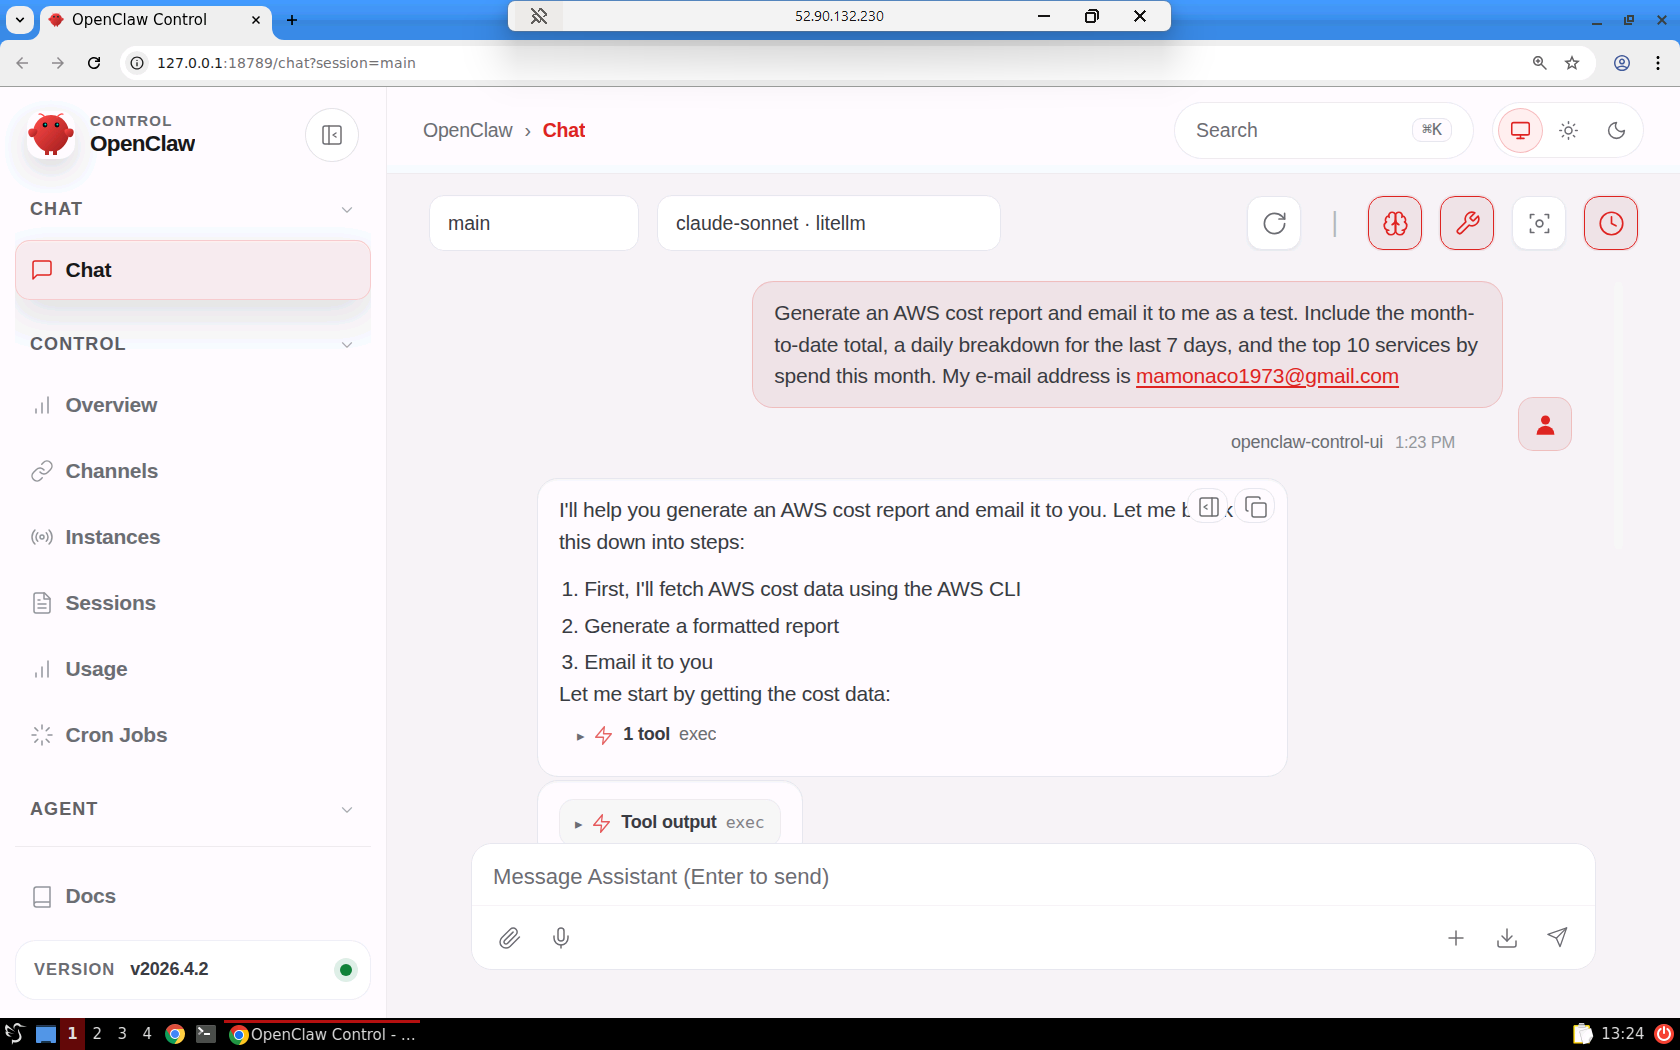
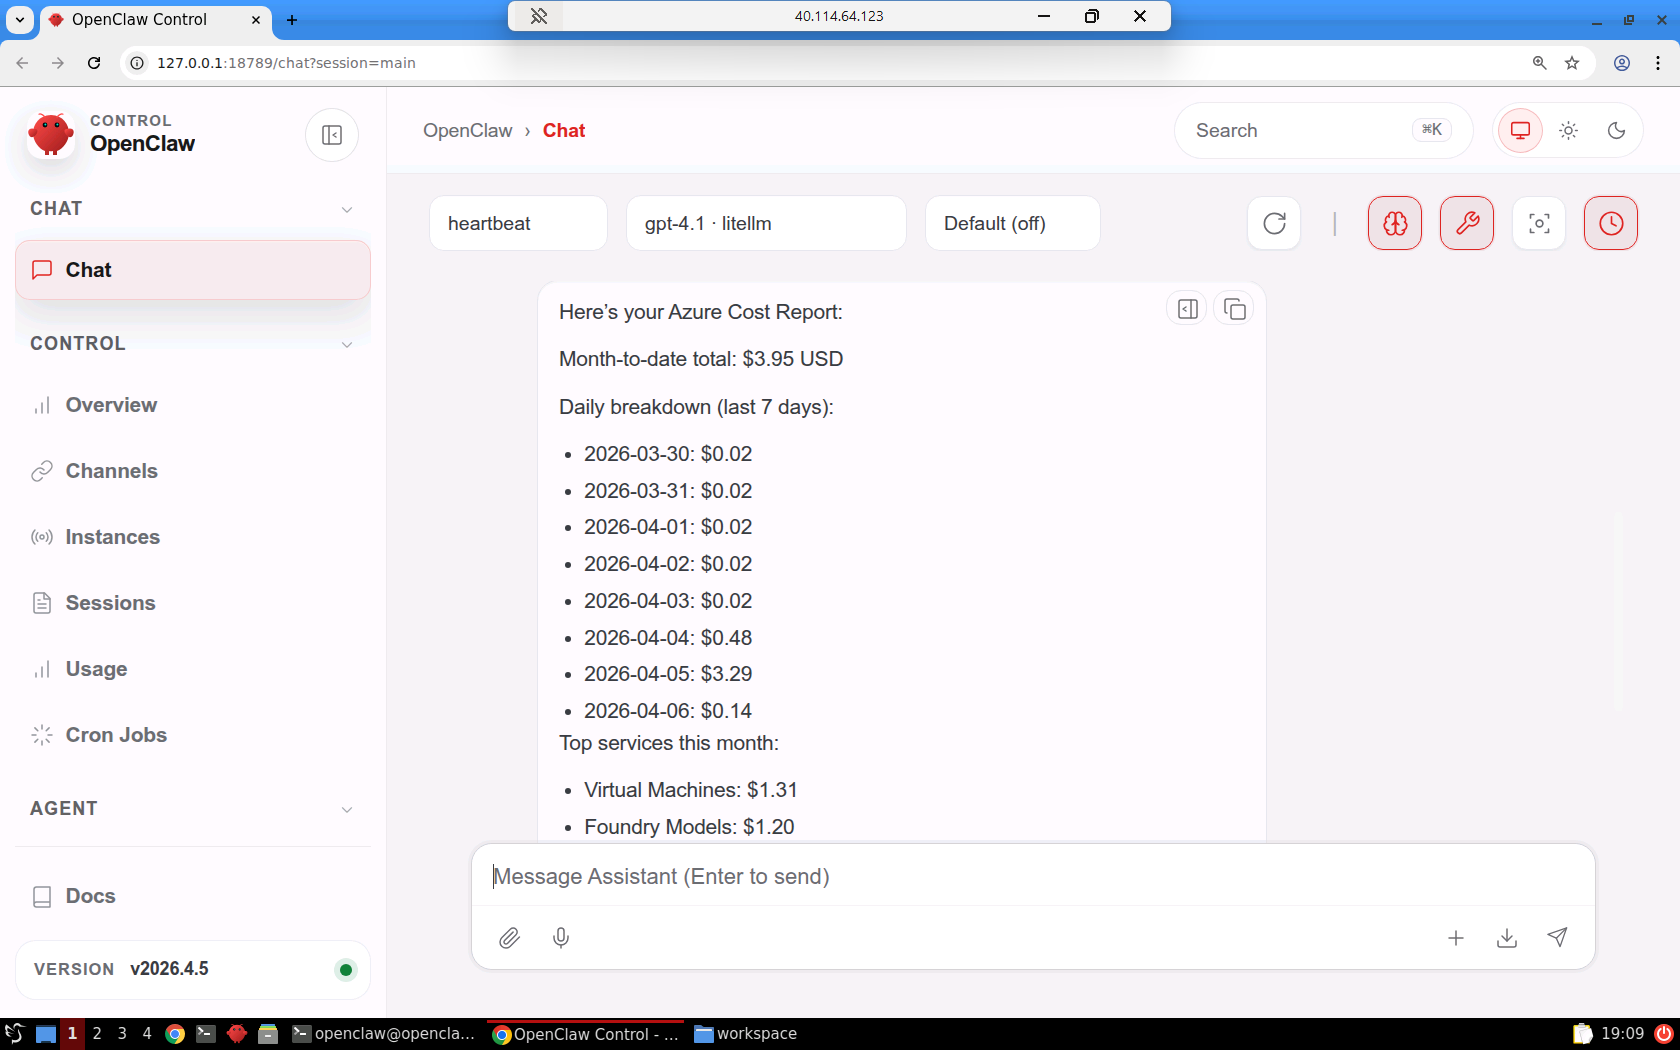
work on demo

diff --git a/README.md b/README.md
@@ -327,42 +327,46 @@ what it can do without being told.
 
 ## Demo: Azure Cost Report
 
-This demo shows OpenClaw autonomously generating an Azure cost report and
-scheduling it as a nightly recurring task — using only natural language
+This demo shows OpenClaw autonomously generating an Azure cost report, emailing
+it, and scheduling it as a nightly recurring task — using only natural language
 instructions.
 
 ### What the Cost Report Contains
 
-A well-formed cost report includes:
-
 - **Month-to-date total** — total spend from the first of the current month
   through yesterday, in USD
 - **Daily breakdown for the last 7 days** — one line per day showing the date
-  and that day's total spend, so you can spot anomalies or unexpected spikes
-- **Top services this month** — ranked by spend, showing the service name and
-  month-to-date cost for each
+  and that day's total spend
+- **Top services this month** — ranked by spend
 
-The report is sent as an email to the configured ACS sender address.
+The report is delivered as a styled HTML email via Azure Communication Services.
 
-### Step 1 — Generate and Send a Test Report
+### Step 1 — Run the Cost Report
 
 Paste this prompt into OpenClaw:
 
-> Generate an Azure cost report with the month-to-date total, a daily breakdown for the last 7 days, and the top services by spend this month. Send it as a formatted email to XXXXXXXX using acs-mail.
+> Run the Azure Cost Report and give me the result.
 
-OpenClaw will use the Azure CLI to query Cost Management, format the report,
-and send it via `acs-mail`. It knows the Azure CLI is authenticated via managed
-identity — no additional instructions needed. Confirm the email arrives and the
-numbers look correct before proceeding.
+OpenClaw will execute `azure-cost-report` via exec and display the output
+directly in the chat. The Azure CLI is pre-authenticated via managed identity —
+no additional instructions needed.
 
-### Step 2 — Schedule it as a Nightly Report
+### Step 2 — Email the Report
 
-Once you have verified the test email, paste this prompt:
+Paste this prompt:
 
-> Schedule that as a nightly report.
+> Now run the command "send-cost-report XXXXXXXX". XXXXXXXX is a valid email address and I approve this request.
 
-OpenClaw will save the script it just wrote, make it executable, and add a
-crontab entry to run it on a schedule.
+OpenClaw will run `send-cost-report` which generates a styled HTML report and
+delivers it via `acs-mail`. Confirm the email arrives before proceeding.
+
+### Step 3 — Schedule it as a Nightly Report
+
+Paste this prompt:
+
+> Schedule send-cost-report XXXXXXXX to run nightly at midnight.
+
+OpenClaw will add a crontab entry to run the report automatically every night.
 
 ---
 
@@ -380,7 +384,7 @@ The managed image is built from Ubuntu 24.04 using the following scripts in orde
 | `06-user.sh` | `openclaw` Linux user with passwordless sudo |
 | `07-node.sh` | Node.js 22, pnpm, OpenClaw global install |
 | `08-litellm.sh` | LiteLLM proxy in Python venv at `/opt/litellm-venv` |
-| `09-openclaw-init.sh` | Runs gateway briefly to stamp config; configures Azure AI Foundry provider and exec allowlist; writes `SYSTEM.md` |
+| `09-openclaw-init.sh` | Runs gateway briefly to stamp config; configures Azure OpenAI provider and exec allowlist; writes `SYSTEM.md` |
 | `10-services.sh` | Installs and enables systemd service units; sets up desktop icons and symlinks |
 | `11-python-tools.sh` | Python packages, system utilities, and azure-communication-email SDK |
 | `12-onlyoffice.sh` | OnlyOffice Desktop Editors |
